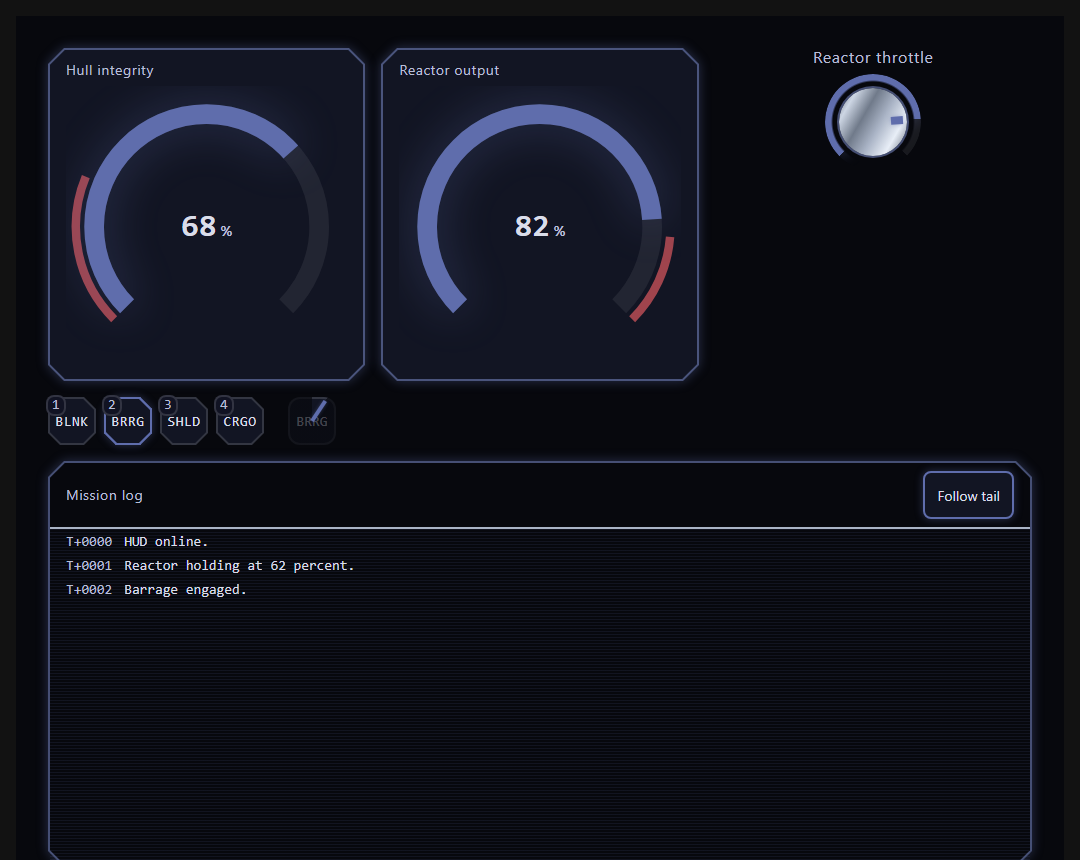
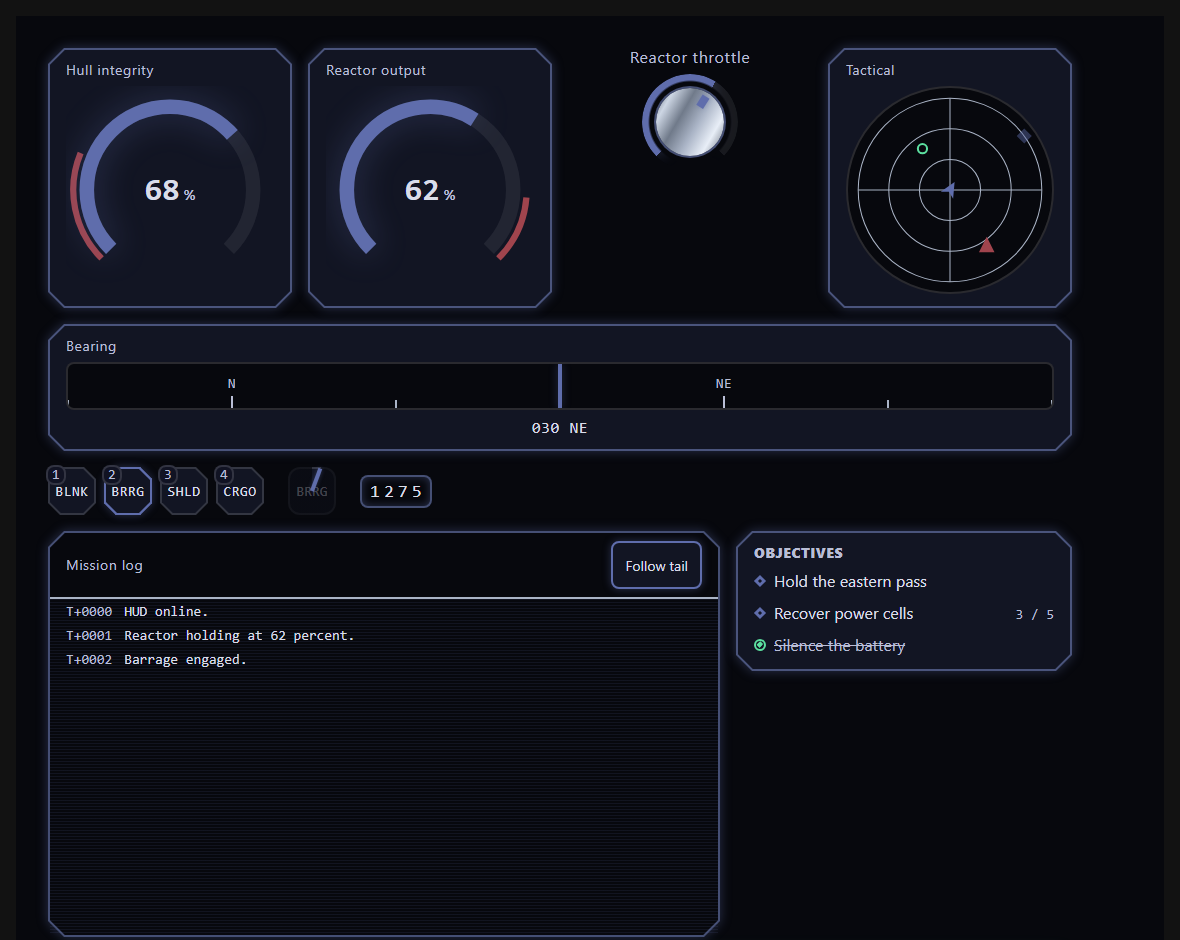
Release 1.11.0
The Tier-4 field kit release: Minimap (with radar sweep), Compass, Reticle,
FloatingText, Odometer, DialogueBox, and ObjectiveTracker, all folded into
the Patterns/Game HUD showcase (minimap and compass on the instrument row,
casts scoring the odometer and spawning floating hit text, objectives
framing the log) with a refreshed README hero. All additive; the freeze
holds.

Gate: 1399 unit tests (152 files), 578 story/axe tests, packaging smoke
PASSED for 1.11.0 (node16 + bundler, all subpaths). Showcase probe-verified
in Chromium: minimap and compass render, a Barrage cast scored 1250 -> 1275
with a floating +25, and the objective list drew.

Claude-Session: https://claude.ai/code/session_01LihNccuWQghWtsDYwjd6k1

diff --git a/src/examples/GameHudShowcase.stories.tsx b/src/examples/GameHudShowcase.stories.tsx
@@ -10,24 +10,37 @@ import {
 import { Dial } from '../components/Dial/Dial';
 import { Hotbar } from '../components/Hotbar/Hotbar';
 import { type HotbarSlot } from '../components/Hotbar/Hotbar.types';
+import { Compass } from '../ui/Compass/Compass';
 import { Cooldown } from '../ui/Cooldown/Cooldown';
 import { Dialog } from '../ui/Dialog/Dialog';
+import { FloatingText } from '../ui/FloatingText/FloatingText';
+import { type FloatingTextEvent } from '../ui/FloatingText/FloatingText.types';
 import { Gauge } from '../ui/Gauge/Gauge';
 import { InventoryGrid } from '../ui/InventoryGrid/InventoryGrid';
 import { type InventorySlot } from '../ui/InventoryGrid/InventoryGrid.types';
 import { moveSlot } from '../ui/InventoryGrid/slotMath';
 import { LogConsole } from '../ui/LogConsole/LogConsole';
 import { ELogSeverity, type LogEntry } from '../ui/LogConsole/LogConsole.types';
+import { Minimap } from '../ui/Minimap/Minimap';
+import { EMapMarkerKind, type MapMarker } from '../ui/Minimap/Minimap.types';
+import { ObjectiveTracker } from '../ui/ObjectiveTracker/ObjectiveTracker';
+import {
+    EObjectiveState,
+    type Objective,
+} from '../ui/ObjectiveTracker/ObjectiveTracker.types';
+import { Odometer } from '../ui/Odometer/Odometer';
 import { StatusFooter } from '../ui/StatusFooter/StatusFooter';
 import { EFooterStatus } from '../ui/StatusFooter/StatusFooter.types';
 import { EUiStatus } from '../ui/tone';
 
-// The integration showcase: every 1.9.0 HUD piece wired through REAL state.
-// Hotbar presses arm the Cooldown chip and append LogConsole entries, the
-// Dial drives the reactor Gauge (danger band + status past the redline), the
-// cargo key opens an InventoryGrid dialog whose moves also log, and the
-// StatusFooter mirrors the latest event. Nothing here is mocked - the story
-// doubles as an integration test under the story/axe gate.
+// The integration showcase: the full HUD set wired through REAL state.
+// Hotbar presses arm the Cooldown chip, score the Odometer, spawn
+// FloatingText hits, and append LogConsole entries; the Dial drives the
+// reactor Gauge (danger band + status past the redline); the cargo key
+// opens an InventoryGrid dialog whose moves also log; the Minimap, Compass,
+// and ObjectiveTracker frame the scene; and the StatusFooter mirrors the
+// latest event. Nothing here is mocked - the story doubles as an
+// integration test under the story/axe gate.
 
 const COOLDOWN_MS: number = 5000;
 const POWER_REDLINE: number = 85;
@@ -70,6 +83,38 @@ const INITIAL_LOG: readonly LogEntry[] = [
     },
 ];
 
+const HEADING_DEGREES: number = 30;
+
+const MAP_MARKERS: readonly MapMarker[] = [
+    { id: 'wing', x: -30, y: 45, label: 'Wingman', kind: EMapMarkerKind.Ally },
+    {
+        id: 'raider',
+        x: 40,
+        y: -60,
+        label: 'Raider',
+        kind: EMapMarkerKind.Hostile,
+    },
+    {
+        id: 'relay',
+        x: 220,
+        y: 160,
+        label: 'Relay (out of range)',
+        kind: EMapMarkerKind.Objective,
+    },
+];
+
+const OBJECTIVES: readonly Objective[] = [
+    { id: 'hold', label: 'Hold the eastern pass' },
+    { id: 'cells', label: 'Recover power cells', count: 3, total: 5 },
+    {
+        id: 'silence',
+        label: 'Silence the battery',
+        state: EObjectiveState.Complete,
+    },
+];
+
+const SCORE_PER_CAST: number = 25;
+
 const ROOT_STYLE: CSSProperties = {
     display: 'flex',
     flexDirection: 'column',
@@ -89,6 +134,20 @@ const ACTION_ROW_STYLE: CSSProperties = {
     flexWrap: 'wrap',
     gap: 'var(--portal-space-5)',
     alignItems: 'center',
+};
+
+// The FloatingText arena beside the score: hits rise out of this box.
+const HIT_ARENA_STYLE: CSSProperties = {
+    position: 'relative',
+    inlineSize: '8rem',
+    blockSize: 'var(--portal-touch-target-min)',
+};
+
+const LOWER_ROW_STYLE: CSSProperties = {
+    display: 'grid',
+    gridTemplateColumns: 'minmax(0, 2fr) minmax(0, 1fr)',
+    gap: 'var(--portal-space-4)',
+    alignItems: 'start',
 };
 
 const CHIP_FACE_STYLE: CSSProperties = {
@@ -134,6 +193,12 @@ function GameHud(): ReactElement {
         readonly InventorySlot[],
         Dispatch<SetStateAction<readonly InventorySlot[]>>,
     ] = useState<readonly InventorySlot[]>(INITIAL_CARGO);
+    const [score, setScore]: [number, Dispatch<SetStateAction<number>>] =
+        useState<number>(1250);
+    const [hits, setHits]: [
+        readonly FloatingTextEvent[],
+        Dispatch<SetStateAction<readonly FloatingTextEvent[]>>,
+    ] = useState<readonly FloatingTextEvent[]>([]);
 
     function appendLog(message: string, severity?: ELogSeverity): void {
         setEntries((prev: readonly LogEntry[]): readonly LogEntry[] => [
@@ -163,6 +228,17 @@ function GameHud(): ReactElement {
         const nextCast: number = castCount + 1;
         setCastCount(nextCast);
         setCast({ abilityId: id, label: ability.label, cast: nextCast });
+        setScore((prev: number): number => prev + SCORE_PER_CAST);
+        setHits(
+            (prev: readonly FloatingTextEvent[]): readonly FloatingTextEvent[] => [
+                ...prev,
+                {
+                    id: `hit-${String(nextCast)}`,
+                    text: `+${String(SCORE_PER_CAST)}`,
+                    status: EUiStatus.Success,
+                },
+            ],
+        );
         appendLog(`${ability.label} engaged.`);
     }
 
@@ -200,7 +276,15 @@ function GameHud(): ReactElement {
                     detents={[0, 25, 50, 75, 100]}
                     onChange={setPower}
                 />
+                <Minimap
+                    label="Tactical"
+                    markers={MAP_MARKERS}
+                    center={{ x: 0, y: 0 }}
+                    range={100}
+                    heading={HEADING_DEGREES}
+                />
             </div>
+            <Compass label="Bearing" heading={HEADING_DEGREES} />
             <div style={ACTION_ROW_STYLE}>
                 <Hotbar
                     label="Ability bar"
@@ -226,8 +310,28 @@ function GameHud(): ReactElement {
                 ) : (
                     <span style={CHIP_FACE_STYLE}>RDY</span>
                 )}
+                <Odometer label="Score" value={score} minDigits={4} />
+                <div style={HIT_ARENA_STYLE}>
+                    <FloatingText
+                        events={hits}
+                        onExpire={(id: string): void => {
+                            setHits(
+                                (
+                                    prev: readonly FloatingTextEvent[],
+                                ): readonly FloatingTextEvent[] =>
+                                    prev.filter(
+                                        (event: FloatingTextEvent): boolean =>
+                                            event.id !== id,
+                                    ),
+                            );
+                        }}
+                    />
+                </div>
             </div>
-            <LogConsole label="Mission log" entries={entries} />
+            <div style={LOWER_ROW_STYLE}>
+                <LogConsole label="Mission log" entries={entries} />
+                <ObjectiveTracker label="Objectives" objectives={OBJECTIVES} />
+            </div>
             <StatusFooter
                 label="HUD status"
                 status={overRedline ? EFooterStatus.Warning : EFooterStatus.Ok}

diff --git a/CHANGELOG.md b/CHANGELOG.md
@@ -4,6 +4,53 @@ All notable changes to this project are documented in this file. The format is
 based on Keep a Changelog, and the project follows Semantic Versioning with the
 0.x caveat that, before 1.0, a minor version may carry a breaking change.
 
+## [1.11.0] - 2026-07-03
+
+The Tier-4 "field kit" release: seven new game-HUD components - the spatial
+instruments, the feedback pair, and the narrative pair - all folded into the
+Game HUD showcase. All public-API changes are additive; the freeze holds.
+
+### Added
+
+- `Minimap`: the non-interactive radar/map instrument in the Chart-family
+  chrome - pure `mapMath` projects world coordinates onto the viewBox with
+  heading-up rotation, pins out-of-range markers to the ring or square
+  frame, and marker meaning rides SHAPE first (contact dot, ally ring,
+  hostile triangle, objective diamond) with status colors as the echo. The
+  optional radar sweep is an infinite transform rotation (the Spinner
+  rule), removed under reduced motion; a role=img summary speaks the label
+  and marker count.
+- `Compass`: the heading-strip instrument - `compassMath` normalizes
+  headings and windows the rose ticks across the 0/360 seam, majors carry
+  their cardinals, a toned lubber line fixes the center, and the mono
+  readout doubles as the accessible name. Chirality-fixed (no RTL mirror,
+  the Dial convention); `normalizeHeading` / `headingDelta` /
+  `nearestCardinal` exported.
+- `Reticle`: the purely decorative aiming glyph (cross / dot / circle /
+  brackets) - spread rides one custom property inside transform translates,
+  and the hit flash is a one-shot keyed remount suppressed under reduced
+  motion.
+- `FloatingText`: the decorative combat-text layer - keyed events rise and
+  fade once (transform/opacity) and report `onExpire` exactly once via
+  animationend plus a backstop timer; deterministic drift lanes fan
+  overlapping events; status tints mix toward text-0 to hold the 4.5:1
+  floor; aria-hidden with an opt-in polite announcer.
+- `Odometer`: the rolling digit counter - place-keyed 0-9 reels translated
+  through one custom property (instant under reduced motion; reels keep DOM
+  identity across the 99 -> 100 carry), with a role=img label speaking the
+  true unpadded value and opt-in announcements.
+- `DialogueBox`: the narrative line surface - an interval-driven typewriter
+  (text, never an animation; instant under reduced motion), a transparent
+  unrevealed remainder so the box never reflows, a polite announcer that
+  speaks the complete line immediately, a continue key that completes then
+  advances, and a subtitle variant.
+- `ObjectiveTracker`: the quest-list HUD panel - shape-first state glyphs
+  (diamond / check / cross) with spoken state and optional suffixes,
+  strike-through completion, and mono progress chips.
+- The `Patterns/Game HUD` showcase now folds in the field kit: the minimap
+  and compass join the instrument row, ability casts score the odometer
+  and spawn floating hit text, and the objective list frames the log.
+
 ## [1.10.0] - 2026-07-03
 
 The "depth and showcase" release: the documented v1 deferrals whose enabling

diff --git a/README.md b/README.md
@@ -246,9 +246,14 @@ so it suits any React UI, not only game input. It spans, among others:
   `Marquee`, `Scanlines`, `StepTrack`, `Timeline`, `TitleBar`,
   `StatusFooter`, `SelectableTile`.
 - Game HUD: `Gauge` (radial arc meter), `Cooldown` (unwinding ability
-  scrim), `LogConsole` (virtualized scrollback), `InventoryGrid` (slot grid
-  with keyboard grab/move and drag-reorder), plus the signal-emitting
-  `Dial`, `Hotbar`, and `VirtualKeyboard` on the game-input side.
+  scrim), `LogConsole` (virtualized scrollback, with an opt-in wrap mode),
+  `InventoryGrid` (slot grid with keyboard grab/move and drag-reorder),
+  `Minimap` (radar/map instrument with an optional sweep), `Compass`
+  (heading strip), `Reticle` (decorative aiming glyph), `FloatingText`
+  (combat-text layer), `Odometer` (rolling digit counter), `DialogueBox`
+  (typewriter narrative line), `ObjectiveTracker` (quest list), plus the
+  signal-emitting `Dial`, `Hotbar`, and `VirtualKeyboard` on the
+  game-input side.
 - Layout: `Stack`, `Grid`, `Divider`.
 
 See the live Storybook (linked above) for the full, current catalogue with
